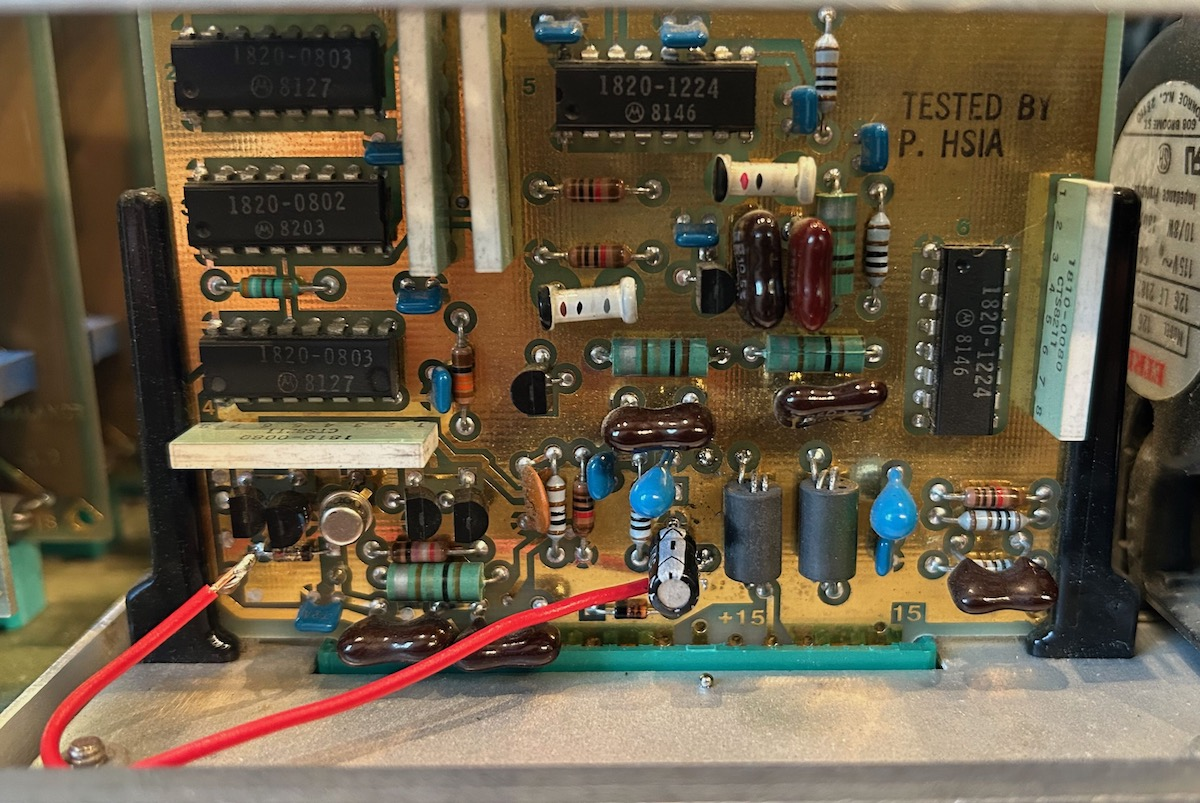
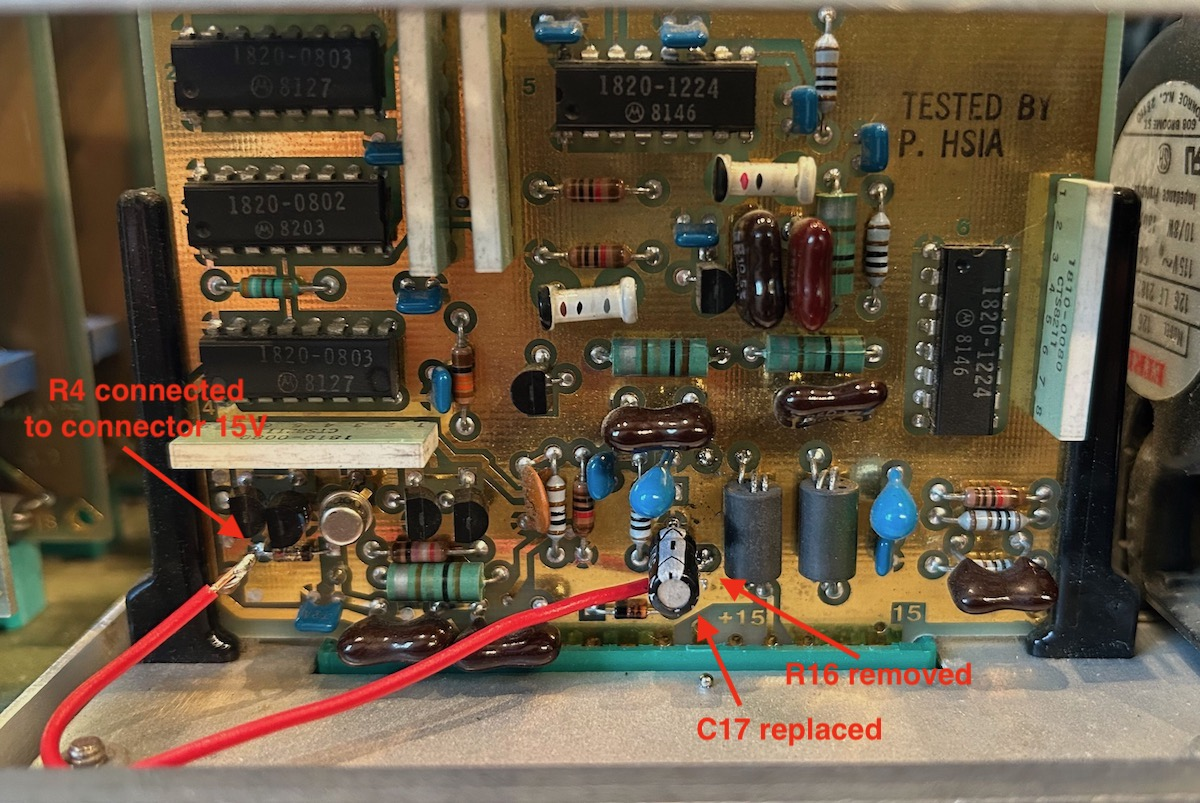
Bodge wire fix.

diff --git a/_posts/2025-08-10-HP-5370A-Repair.md b/_posts/2025-08-10-HP-5370A-Repair.md
@@ -281,20 +281,30 @@ to be in sync with it. This circuit deserves a blog post on its own.
 
 When you take a closer look at the schematic, there are 2 points that you can take advantage of:
 
-* There is nothing on the path from the internal clock input to the various *internal* outputs that depends
-  on the 15V rail: everything depends on the -5.2V rail only. Only the reference clock output uses the
-  15V rail.
+* The only part on the path from the internal clock input to the various *internal* outputs that depends
+  on the 15V rail is the ECL to TTL conversion circuit. And that part of the 15V rail is only connected
+  to 3k Ohm resistor R4.
 * Immediately after the connector, 15V first goes through an L/C/R/C circuit.
 
 ![Ref frequency board input rails](/assets/hp5370a/ref_freq_buffer_input_rails.png)
 
-Since the short is expected to be on the ref board, I planned to remove R16 to decouple
-the internal 15V from the input. In the process I noticed the following:
+In the process of debugging, I noticed the following:
 
 ![Black capacitor on reference frequency buffer PCB](/assets/hp5370a/ref_frequency_buffer_pcb.jpg)
 
 The arrow points to capacitor C17, which looks suspicioulsy black. I found the magic smoke
-generator. After removing the capactior and R16, I had a nice 10MHz ECL clock signal on the
+generator.  
+
+This was the plan off attack:
+
+* Replace C17 with a new 10uF capacitor
+* Remove resistor R16 to decouple the internal 15V rail from the external one.
+* Disconnect the top side of R4 from the internal 15V and wire it up straight to the
+  connector 15V rail. 
+
+![PCB with bodge wire, annotated with 3 fixes](/assets/hp5370a/bodge_wire.jpg)
+
+After these 3 fixes, I had a nice 10MHz ECL clock signal on the
 test pin.
 
 ![10MHz signal on Yokogawa oscillscope screen](/assets/hp5370a/10MHz_scope_shot.jpg)
